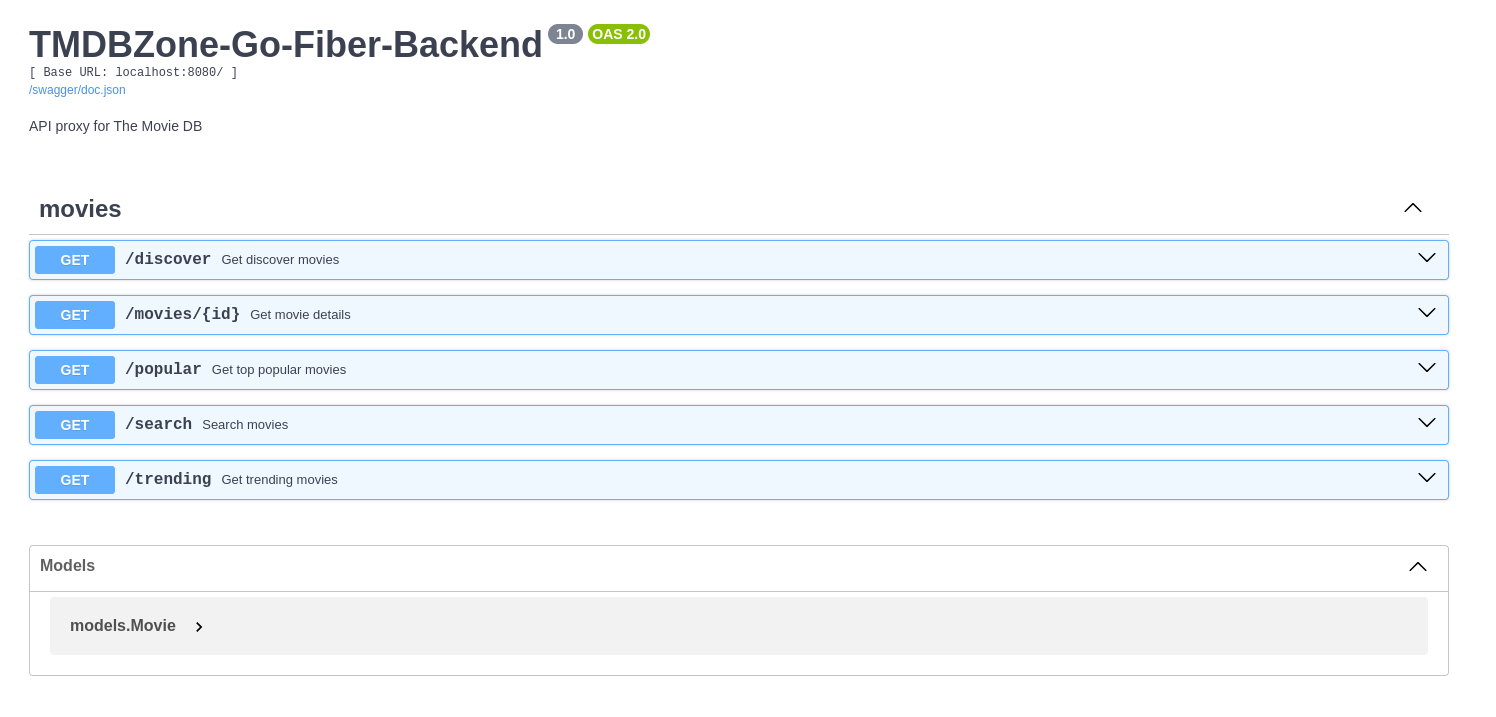
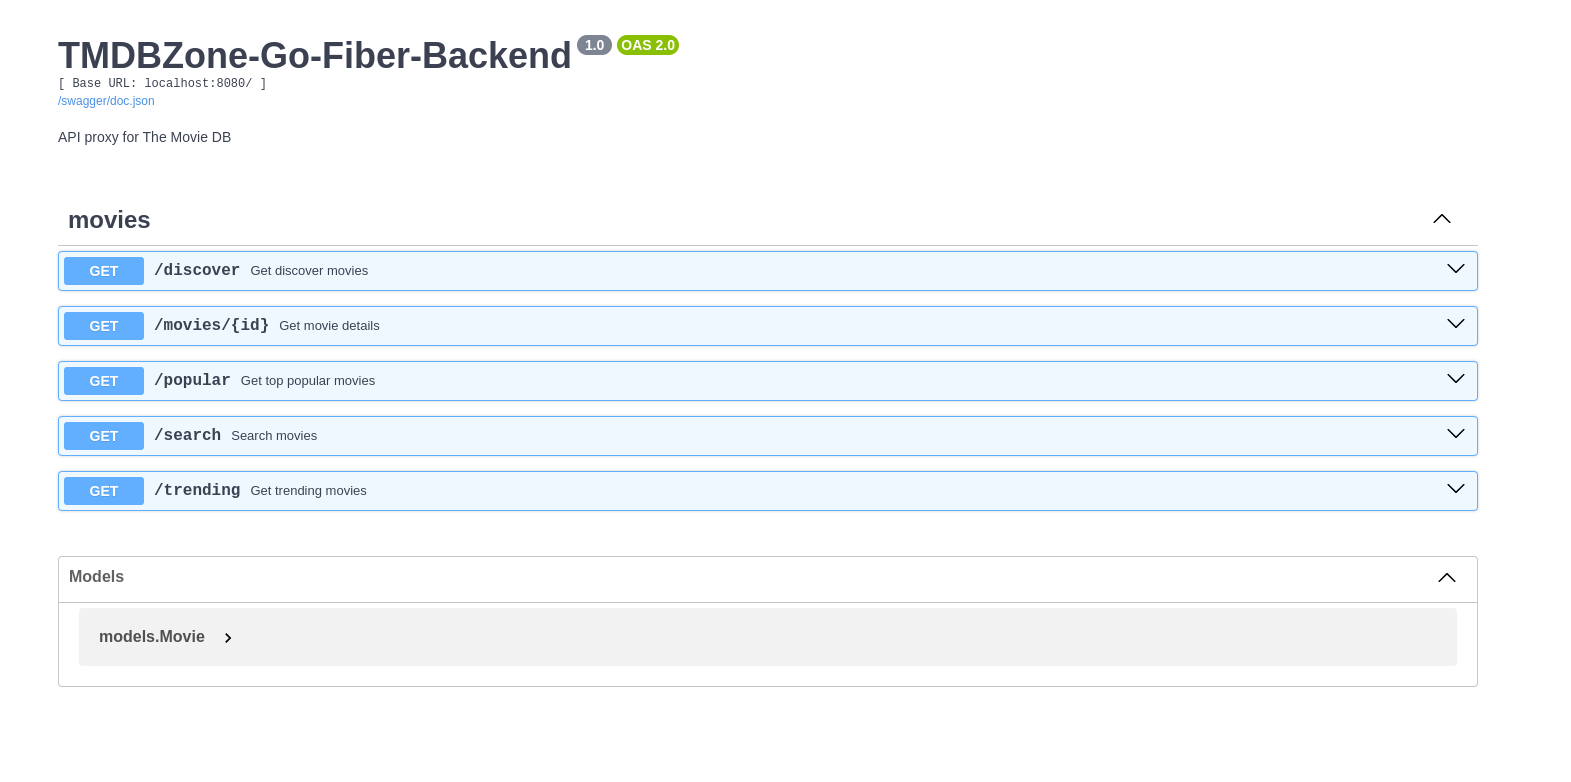
change swagger docs

diff --git a/cmd/main.go b/cmd/main.go
@@ -17,7 +17,7 @@ import (
 	"github.com/gofiber/swagger"
 )
 
-// @title           TMDBZone-Go-Fiber-Backend
+// @title           TMDBZone-Go-Fiber-Redis-Backend
 // @version         1.0
 // @description     API proxy for The Movie DB
 // @host            localhost:8080
